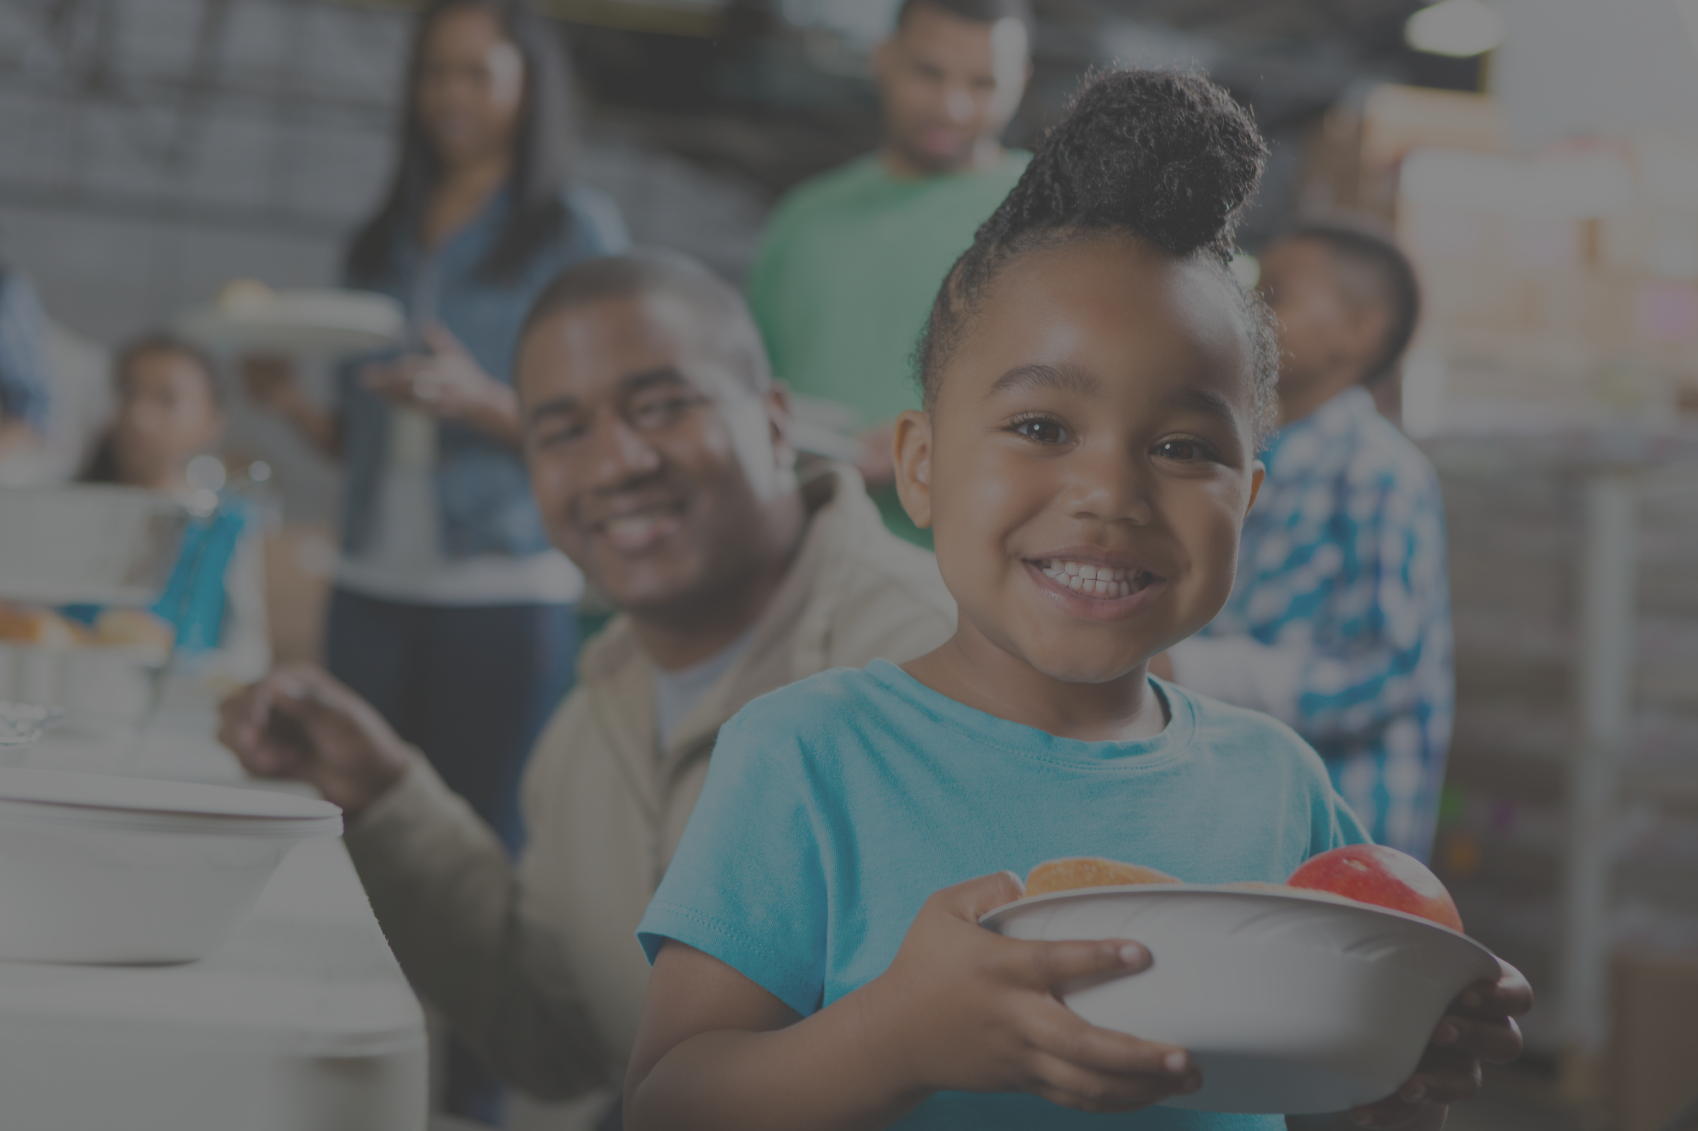
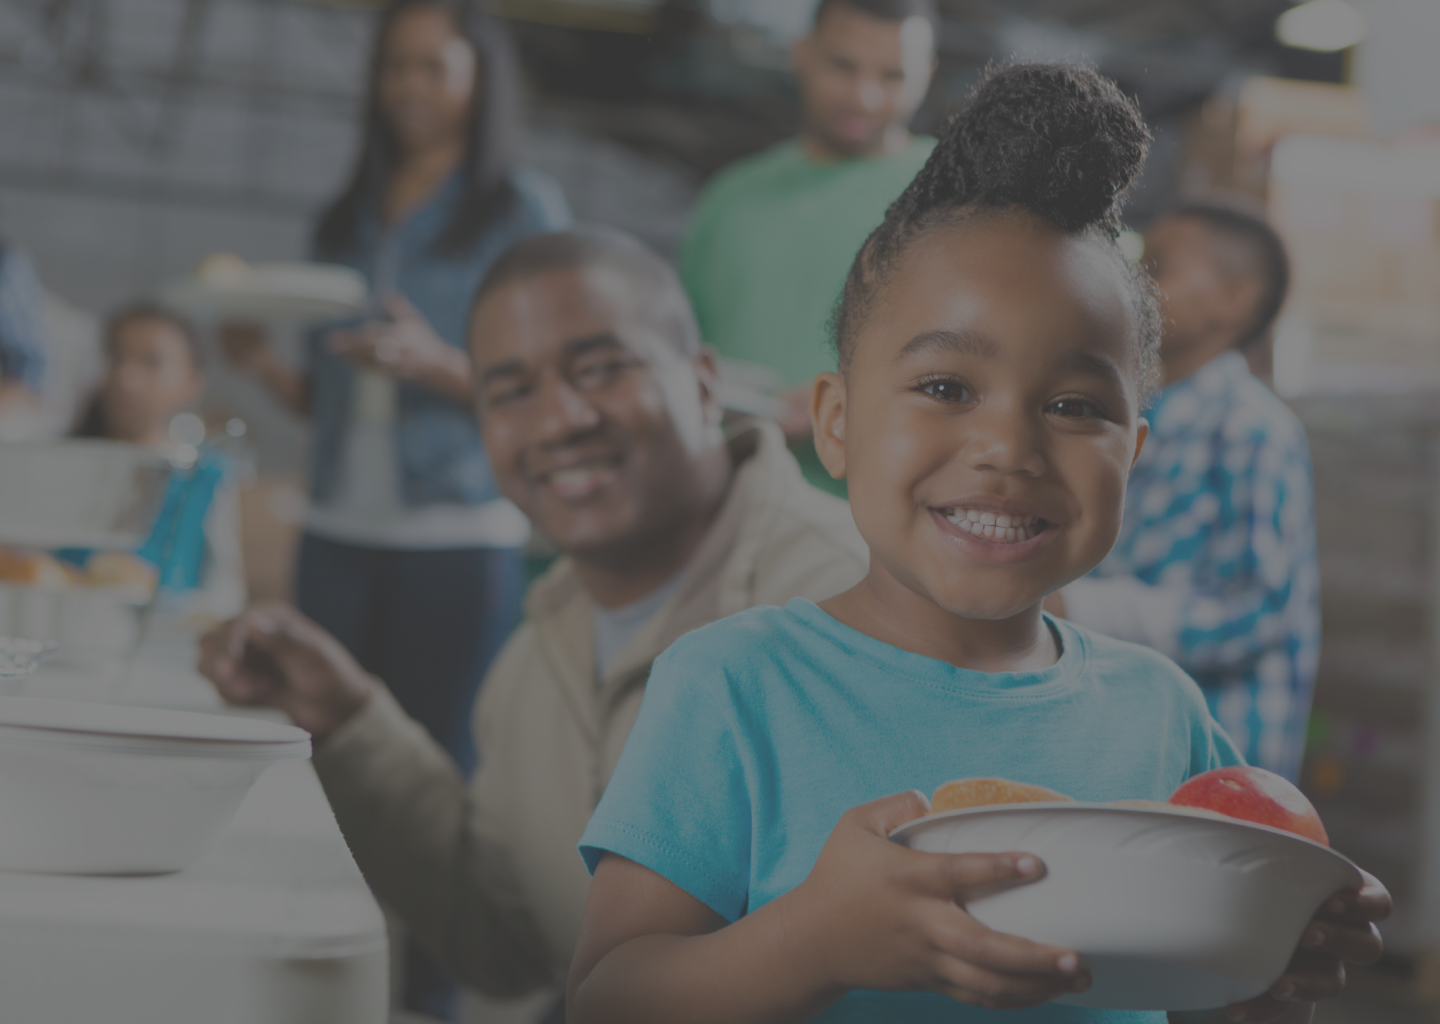
Moved to lower quality splash image (should load faster)

diff --git a/css/creative.css b/css/creative.css
@@ -184,7 +184,7 @@ header {
     min-height: auto;
     text-align: center;
     color: #fff;
-    background-image: url(../img/header.png);
+    background-image: url(../img/header@0.5x.png);
     background-position: center;
     -webkit-background-size: cover;
     -moz-background-size: cover;
